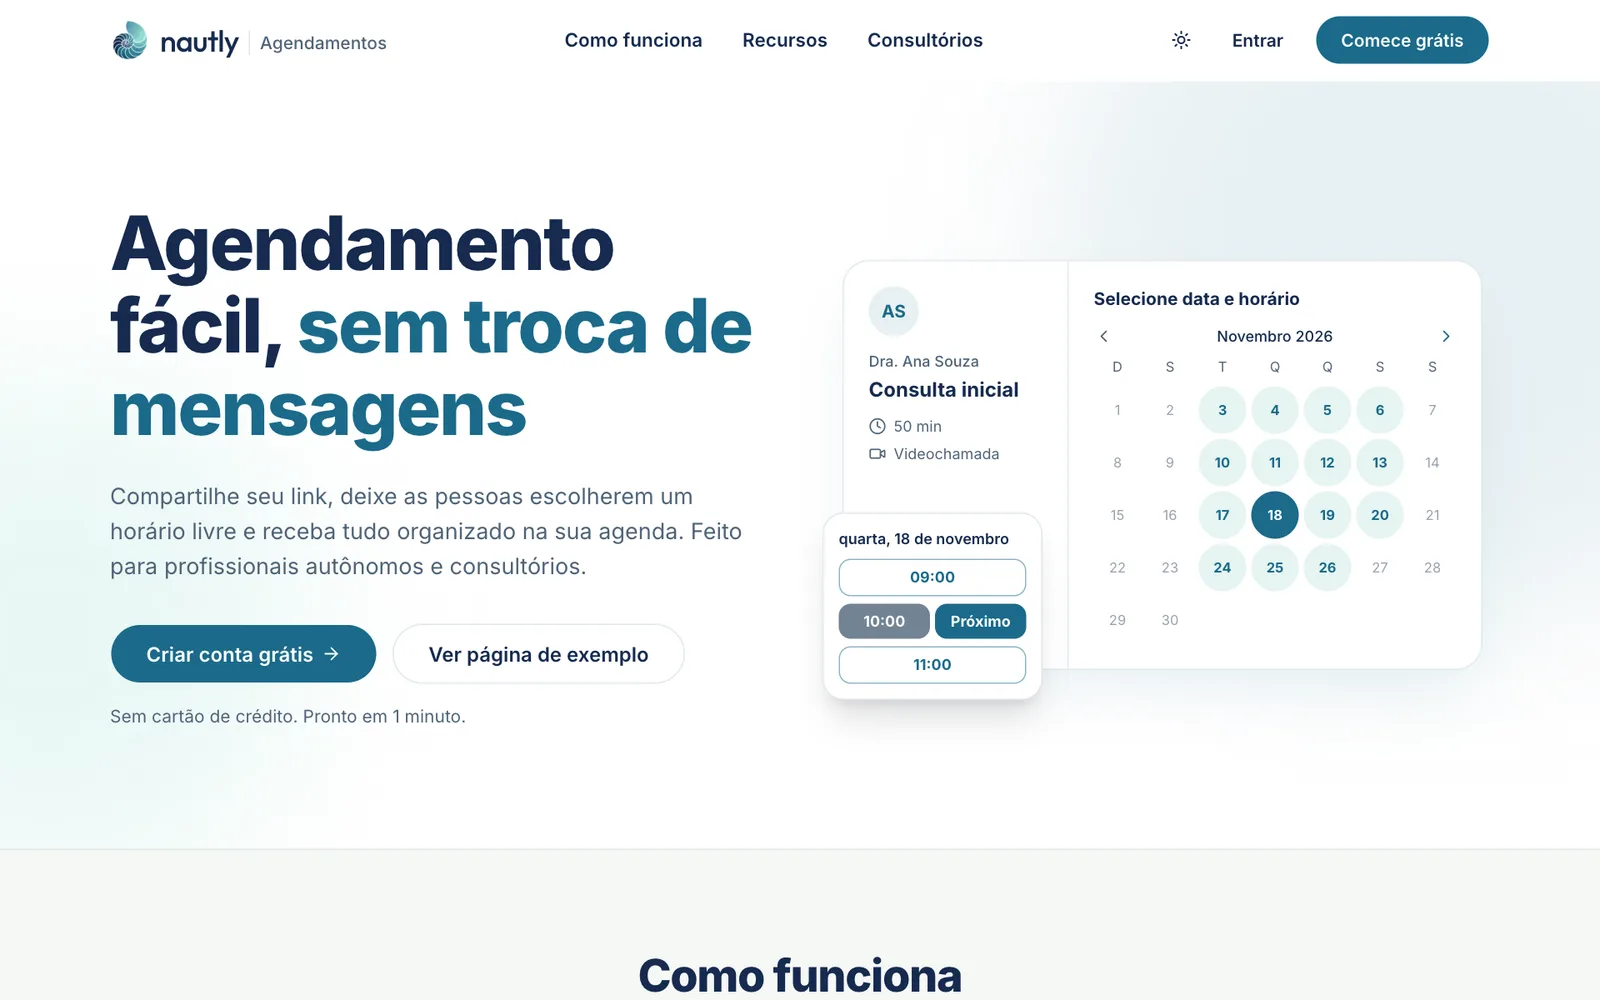
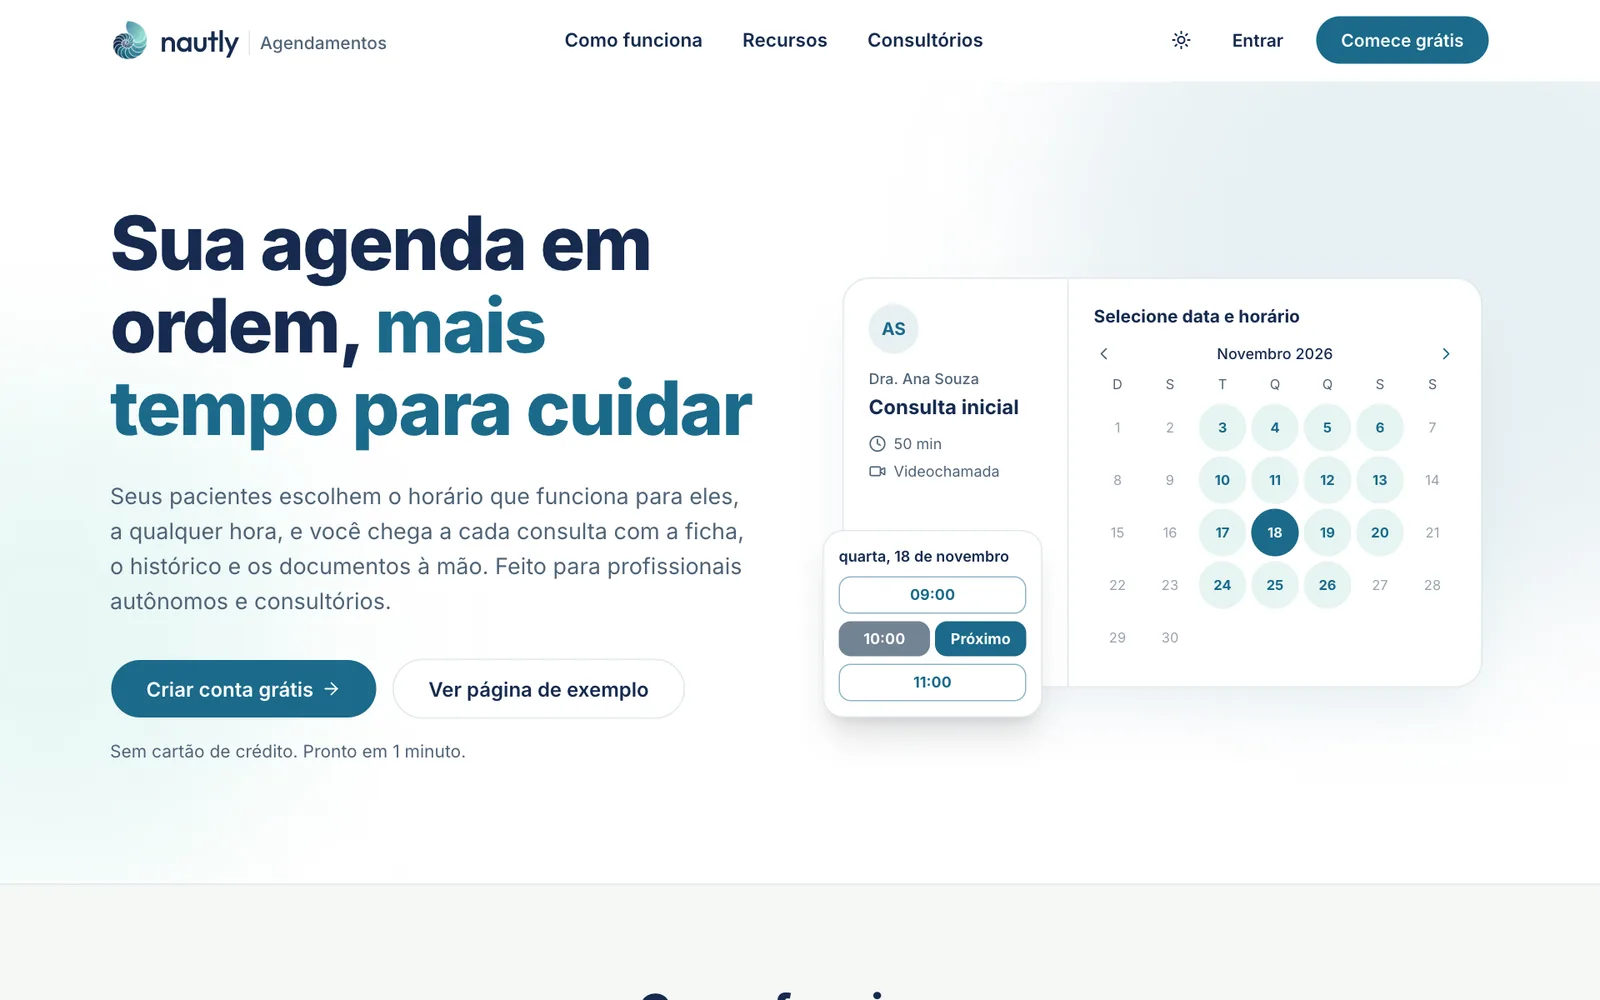
copy: textos do site e do README mais próximos do cuidado com o paciente

diff --git a/src/app/page.tsx b/src/app/page.tsx
@@ -70,11 +70,12 @@ export default async function Home() {
           <div className="relative mx-auto grid max-w-6xl items-center gap-14 px-4 py-16 sm:px-6 lg:grid-cols-2 lg:py-24">
             <div>
               <h1 className="text-4xl leading-[1.1] font-extrabold tracking-tight sm:text-5xl lg:text-6xl">
-                Agendamento fácil, <span className="text-primary">sem troca de mensagens</span>
+                Sua agenda em ordem, <span className="text-primary">mais tempo para cuidar</span>
               </h1>
               <p className="mt-6 max-w-lg text-lg text-muted-foreground">
-                Compartilhe seu link, deixe as pessoas escolherem um horário livre e receba tudo organizado na
-                sua agenda. Feito para profissionais autônomos e consultórios.
+                Seus pacientes escolhem o horário que funciona para eles, a qualquer hora, e você chega a cada
+                consulta com a ficha, o histórico e os documentos à mão. Feito para profissionais autônomos e
+                consultórios.
               </p>
               <div className="mt-8 flex flex-wrap gap-3">
                 <Button asChild size="lg" className="h-12 rounded-full px-7 text-base font-semibold">
@@ -198,9 +199,8 @@ export default async function Home() {
                 Nautly para consultórios
               </h2>
               <p className="mt-4 max-w-lg text-white/75">
-                A arquitetura já é multi-tenant: uma clínica é uma organização com vários profissionais, cada
-                um com sua agenda. Próximos passos: agenda da equipe, ficha de pacientes, salas e lembretes
-                por WhatsApp.
+                Toda a equipe no mesmo lugar: cada profissional com a própria agenda, a recepção cuidando dos
+                horários e o histórico de cada paciente disponível para quem atende.
               </p>
             </div>
             <ul className="grid gap-3">
@@ -225,7 +225,7 @@ export default async function Home() {
       <footer className="border-t py-8">
         <div className="mx-auto flex max-w-6xl flex-col items-center justify-between gap-4 px-4 text-sm text-muted-foreground sm:flex-row sm:px-6">
           <Logo className="scale-90" />
-          <p>Projeto de portfólio. Feito com Next.js, shadcn/ui, Drizzle e Postgres.</p>
+          <p>Agenda e gestão para consultórios.</p>
         </div>
       </footer>
     </div>

diff --git a/src/app/layout.tsx b/src/app/layout.tsx
@@ -12,7 +12,7 @@ export const metadata: Metadata = {
   title: { default: "Nautly Agendamentos · Agenda online para consultórios", template: "%s · Nautly" },
   applicationName: "Nautly Agendamentos",
   description:
-    "Compartilhe seu link, deixe clientes escolherem um horário livre e pare de negociar agenda por mensagem.",
+    "Agenda online e ficha do paciente no mesmo lugar. Seus pacientes marcam no horário que funciona para eles, e você ganha tempo para cuidar de cada um.",
 }
 
 export default function RootLayout({ children }: LayoutProps<"/">) {

diff --git a/README.md b/README.md
@@ -23,7 +23,7 @@
 
 ## A ideia
 
-Quem atende com hora marcada perde tempo negociando horário por mensagem: "tem amanhã às 10?", "não, só às 15", "pode ser quinta?". O Nautly resolve isso do jeito que ferramentas como o Calendly resolvem: o profissional define quando atende, compartilha um link e o paciente escolhe sozinho um horário livre.
+Quem atende com hora marcada gasta boa parte do dia organizando a agenda, quando poderia estar cuidando das pessoas. No Nautly, o profissional define quando atende e compartilha um link; o paciente escolhe o horário que funciona melhor para ele, a qualquer hora do dia. A conversa entre os dois continua do mesmo jeito. O que sai da rotina é o trabalho de encaixar horários.
 
 Só que, para um consultório, a agenda é só o começo. Uma nutricionista precisa acompanhar o peso do paciente ao longo dos meses, um psicólogo precisa de sessões semanais recorrentes e controle de faltas, um dentista precisa de odontograma e de orçamento aprovado antes de começar o tratamento. Hoje isso vive espalhado entre Google Agenda, planilhas, WhatsApp e papel.
 
@@ -43,8 +43,6 @@ A tela fica limpa para cada negócio, e o mesmo código atende todos eles. A pro
 | Medicina                | Prontuário, anexos de exames, atestado e receituário                                  |
 | Fisioterapia e Estética | Planos de tratamento por sessões e procedimentos                                      |
 | Salão                   | Agenda e cadastro de clientes, sem módulos clínicos                                   |
-
-> Projeto de portfólio. Pagamentos e planos de assinatura ficaram de propósito para o fim do roadmap.
 
 ## Telas
 
